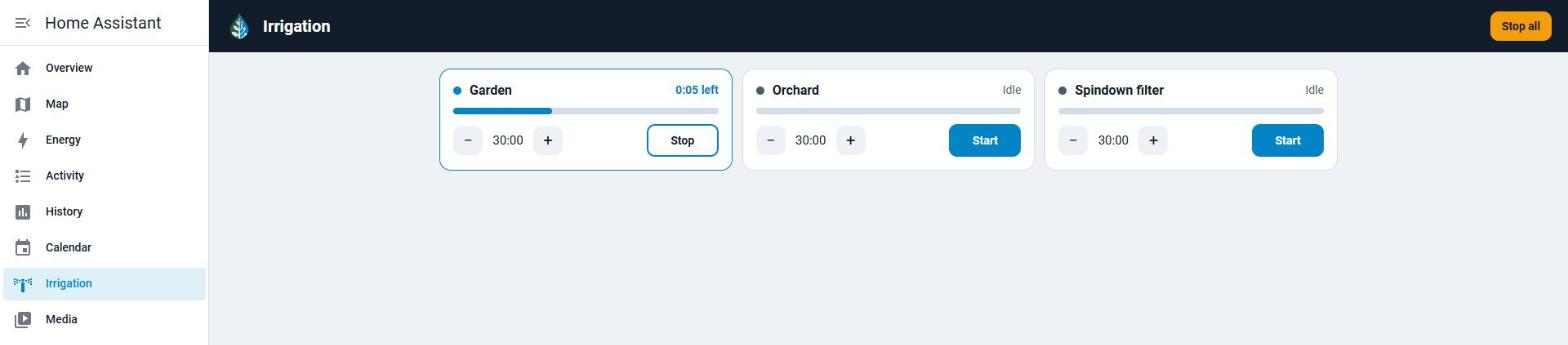
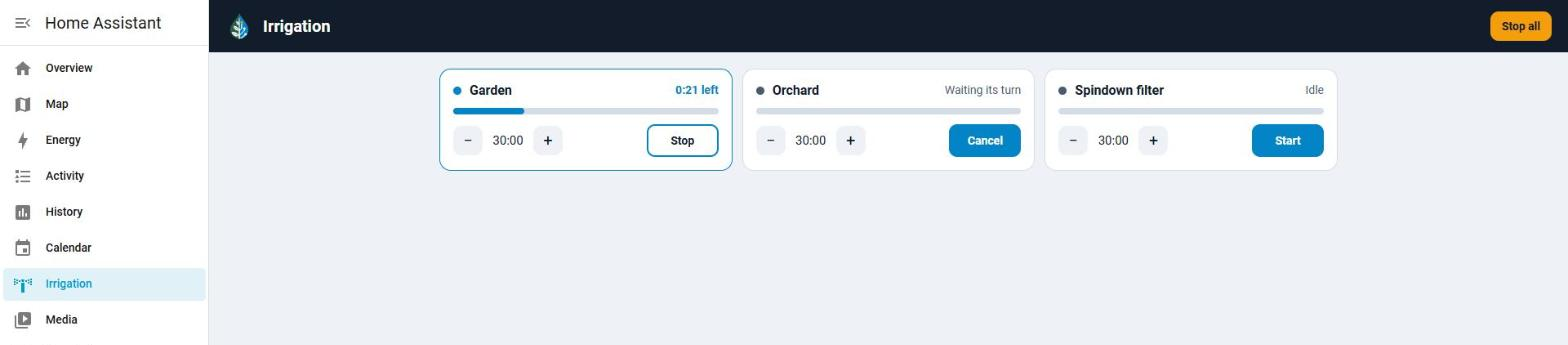
Bring the docs up to date with the run queue and master valve (#12)
* Recommend a master zone over a master switch in the README

* Document the run queue, buttons, sensors and new actions in the README

* Show a queued zone in the panel screenshot

diff --git a/README.md b/README.md
@@ -15,13 +15,16 @@ Provides:
 - An **Irrigation** sidebar panel and a dashboard card for controlling your zones
 - **A valve for each zone**, grouped under a single device
 - **A default run time for each zone**, with a number entity to change it
+- **Zones run one at a time**: starting a zone while another runs queues it, with **Stop all** and **Skip zone** buttons and status sensors
+- An optional master valve or pump that opens with every zone
+- Commands sent over TLS with the token as the key, when `irrigationd` supports it
 - Zone state read from `irrigationd`, so runs started elsewhere show up and survive a Home Assistant restart
 - Host, port and token set in the UI, with the token matching `IRRIGATIOND_TOKEN` on the irrigationd host
 - A bundled automation blueprint for watering zones one after another
 - Sprinkler icons that change while a zone is running
 
 <p align="center">
-  <img src="docs/screenshots/panel.png" alt="The Irrigation sidebar panel with one zone running and counting down, two idle zones with Start buttons, and a Stop all button" width="100%">
+  <img src="docs/screenshots/panel.png" alt="The Irrigation sidebar panel with one zone running and counting down, a second zone waiting its turn with a Cancel button, an idle zone with a Start button, and a Stop all button" width="100%">
 </p>
 
 ### Requirements
@@ -103,6 +106,14 @@ If you change **Number of zones**, submit, then open **Configure** again to set 
   <img src="docs/screenshots/configure.png" alt="The Configure dialog with host, port, number of zones, default run time, a hidden token field and a run time for each zone" width="45%">
 </p>
 
+### Master valve or pump
+
+If your system has a master valve or pump, set it under **Configure**. It opens before each zone, after an optional lead time of up to 10 seconds, and closes after it.
+
+Wire it to `irrigationd` and set it as the **master zone** if you can. `irrigationd`'s own timer then closes it with each zone, and no run passes 2 hours, even if Home Assistant crashes or loses its connection.
+
+A **master switch** is a Home Assistant switch instead. It has no timer of its own, so if Home Assistant goes down mid-run, it stays on until Home Assistant starts again and turns it off. If that turn-off fails, **Repairs** shows a notice.
+
 ### Changing the token
 
 Change `IRRIGATIOND_TOKEN` on the irrigationd host and restart `irrigationd`, then enter the same value under **Configure**. The token field is hidden and starts empty, and leaving it blank keeps the current token. Until both sides match, commands fail with `ERR token`.
@@ -115,7 +126,9 @@ After setup, **Irrigation** appears in the sidebar, with nothing else to install
 
 - Start or stop a zone, and see the time left
 - Change a zone's default run time, from 10 seconds to 2 hours
-- Stop everything with **Stop all**, which shows while a zone is running
+- Stop everything with **Stop all**, which shows while a zone is running or waiting, and also clears the queue
+
+Only one zone per controller runs at a time. Starting another zone shows it as **Waiting its turn**, and it starts when the zones ahead of it finish. Its button changes to **Cancel**. A master valve zone shows as **Master valve** and has no Start button, because it opens with the other zones.
 
 If a command fails, the zone shows a warning with the reason. A warning on a stopped zone means it may still be running, so check the controller.
 
@@ -123,7 +136,7 @@ If a command fails, the zone shows a warning with the reason. A warning on a sto
 
 The integration checks the real zone state with `irrigationd` every 15 seconds, so runs started elsewhere show up and a running zone survives a Home Assistant restart. If it can't read the state for 45 seconds, the zones show as unavailable.
 
-To rename a zone, rename its valve in Home Assistant and the panel follows.
+To rename a zone, rename its valve in Home Assistant and the panel follows. Reloading a controller, such as after saving **Configure**, closes its zones.
 
 ### Dashboard card
 
@@ -142,14 +155,21 @@ A second controller adds its number after `irrigation`, such as `valve.irrigatio
 
 ### Valves
 - `valve.irrigation_zone_X` → Zone valve for each irrigation zone, with the state `open` or `closed`
-- Each valve has a `remaining` attribute showing countdown time
-- Each valve has a `configured_duration` attribute showing the last run's duration
-- Each valve has a `zone` attribute with its zone number
+- Attributes: `remaining` (seconds left), `configured_duration` (the zone's default run time), `run_duration` (the current or last run), `queued` (waiting its turn), `master` (it's the master valve) and `zone` (its number)
+
+### Buttons
+- `button.irrigation_stop_all` clears the queue and closes every zone and the master valve
+- `button.irrigation_skip` ends the running zone early and starts the next one in the queue
+
+### Sensors
+- `sensor.irrigation_status` is `idle` or `running`, with `current_zone`, `ends_in` (seconds) and `queue` attributes
+- `sensor.irrigation_queued_runs` counts the runs waiting, with their total `queued_seconds`
 
 ### Actions
 - `valve.open_valve` runs a zone for its default run time
-- `irrigation.run` runs one or more zones, with an optional `duration` from 10 to 7200 seconds
-- `valve.close_valve` stops a zone early
+- `irrigation.run` runs one or more zones, with an optional `duration` from 10 to 7200 seconds. Zones beyond the first wait in the queue
+- `valve.close_valve` stops a running zone, which starts the next one, or cancels a waiting one
+- `irrigation.stop_all` clears every controller's queue and closes all zones and master valves
 
 If `irrigationd` refuses a command, the action fails with its reply, which stops an automation at that step. Add `continue_on_error: true` to a step that should carry on regardless. The blueprint already does this.
 
@@ -233,6 +253,8 @@ Durations are comma-separated, in the same order as the zones, without brackets.
 
 Pick the zone valves one by one. Choosing an area or a device in the zone picker runs nothing.
 
+Because zones queue, an automation can also call `irrigation.run` once with several zones, and they run one after another, each for its default run time unless a duration is given.
+
 ### YAML snippet
 
 ```yaml
@@ -263,6 +285,9 @@ use_blueprint:
 - **Zones show as unavailable**: Home Assistant couldn't read zone state from `irrigationd` for 45 seconds. Check that `irrigationd` is running, and that the host and port under **Configure** are right.
 - **A stopped zone shows a warning in the panel**: the stop command failed, so the valve may still be open. Check the controller.
 - **A zone won't restart**: it reached the 2-hour limit and can't run again for up to 10 minutes unless it's stopped first.
+- **A zone shows "Waiting its turn"**: another zone on the same controller is running. Use **Skip zone** to move on, or **Stop all** to clear the queue.
+- **A Repairs notice says the master switch didn't turn off**: Home Assistant couldn't turn off your master switch after starting. If it's a pump, turn it off by hand now.
+- **A Repairs notice says the token is sent in plain text**: see [Security and privacy](#security-and-privacy).
 
 Logs are under **Settings → System → Logs**. The token is never written to them. Remove host names and addresses before sharing logs.
 

diff --git a/CONTRIBUTING.md b/CONTRIBUTING.md
@@ -17,6 +17,7 @@ Problems with the daemon itself belong in [irrigationd](https://github.com/jbuck
 1. Fork the repo and create a branch named `dev/<topic>`.
 2. Keep each pull request to one change.
 3. Run `python -m py_compile custom_components/irrigation/*.py` before committing.
+   Run the test suite too with `pytest`; see [`tests/README.md`](tests/README.md) for setup.
 4. Test with a running Home Assistant. A Docker install pointed at a simulated `irrigationd` is fine. Say in the pull request how you tested, and whether it ran on real valves.
 5. Update the README if behaviour changes, and add a line to [`CHANGELOG.md`](CHANGELOG.md).
 6. Open a pull request and fill in the template.
